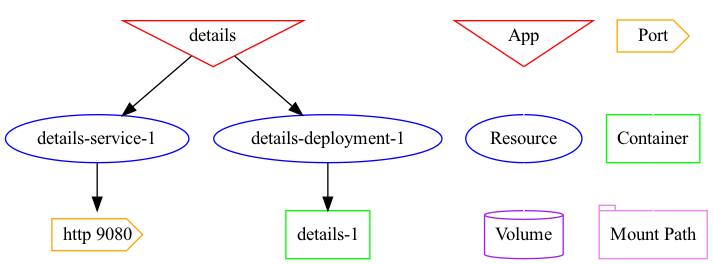
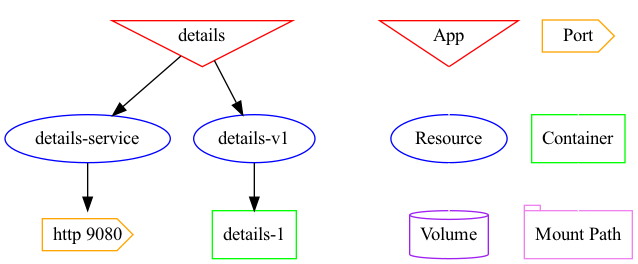
updated naming scheme

diff --git a/vubernetes.py b/vubernetes.py
@@ -68,7 +68,10 @@ class Vubernetes():
                 # Keep a unique count so that nodes don't double up
                 resourceCount[resource.kind] += 1
                 # Add edge between appNode and resourceNode
-                resourceNodeName = f"{app.name}-{resource.kind.lower()}-{resourceCount[resource.kind]}"
+                if resource.metadata['name'] == app.name:
+                    resourceNodeName = f"{resource.metadata['name']}-{resource.kind.lower()}"
+                else:
+                    resourceNodeName = f"{resource.metadata['name']}"
                 G.add_nodes_from([(resourceNodeName, {'color':'blue'})])
                 G.add_edge(app.name, resourceNodeName)
                 if resource.kind == "Service":
